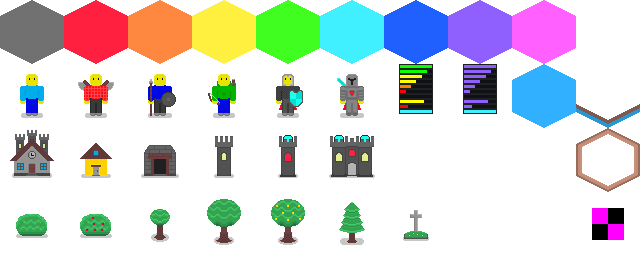
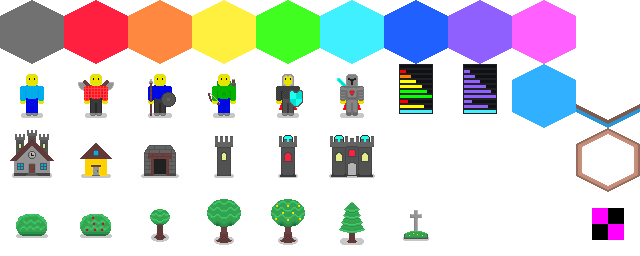
wip troop drawing + troop hp bar changes

Changed region(s): [[0.7188, 0.25, 0.7812, 0.4375], [0.625, 0.25, 0.6875, 0.4375]]

diff --git a/src/ui/drag.cpp b/src/ui/drag.cpp
@@ -1,5 +1,6 @@
 #include "ui/drag.hpp"
 #include "ui/window.hpp"
+#include "mathext.hpp"
 
 namespace ui {
 	/// Constructs an inactive drag event.
@@ -31,12 +32,12 @@ namespace ui {
 
 		// clamp value
 		if (max) {
-			if (value.x >= max->x) value.x = max->x - 1;
-			if (value.y >= max->y) value.y = max->y - 1;
+			value.x = ext::imin(value.x, max->x - 1);
+			value.y = ext::imin(value.y, max->y - 1);
 		};
 		if (min) {
-			if (value.x < min->x) value.x = min->x;
-			if (value.y < min->y) value.y = min->y;
+			value.x = ext::imax(value.x, min->x);
+			value.y = ext::imax(value.y, min->y);
 		};
 
 		// set reference to new value
@@ -68,16 +69,11 @@ namespace ui {
 
 	/// Updates drag scaling.
 	void Drag::setScale(float scale, sf::Vector2i mouse) {
-		// @todo: fix this fucking thing
-		//
-		// in theory this should be:
-		// 
-		//     camera = (camera + mouse) * new_scale / old_scale - mouse;
-		//
-		// reference vector is either not modified
-		// or constantly gets overwritten by inner state of ui::Drag
-		//
-		// also code above does not work
+		// clamp scale
+		scale = ext::fclamp(scale, min_zoom, max_zoom);
+
+		// shift camera
+		*_ref = sf::Vector2i(sf::Vector2f(*_ref + mouse) * scale / _scale) - mouse;
 
 		// set new scale
 		_scale = scale;

diff --git a/src/game/values/troop_values.cpp b/src/game/values/troop_values.cpp
@@ -1,4 +1,5 @@
 #include "game/values/troop_values.hpp"
+#include "mathext.hpp"
 
 namespace Values {
 	// texture array
@@ -20,4 +21,24 @@ namespace Values {
 		"@!troop.baron",
 		"@!troop.knight",
 	};
+
+	// health bar base
+	const sf::IntRect hp_base = sf::IntRect({ 399, 64 }, { 34, 5 });
+
+	// health bar array
+	const sf::IntRect troop_hp[static_cast<size_t>(TroopBar::Count)] = {
+		hp_base + sf::Vector2i(0, hp_base.size.y * 0), // 0 / 6
+		hp_base + sf::Vector2i(0, hp_base.size.y * 1), // 1 / 6
+		hp_base + sf::Vector2i(0, hp_base.size.y * 2), // 2 / 6
+		hp_base + sf::Vector2i(0, hp_base.size.y * 3), // 3 / 6
+		hp_base + sf::Vector2i(0, hp_base.size.y * 4), // 4 / 6
+		hp_base + sf::Vector2i(0, hp_base.size.y * 5), // 5 / 6
+		hp_base + sf::Vector2i(0, hp_base.size.y * 6), // 6 / 6
+		hp_base + sf::Vector2i(0, hp_base.size.y * 7), // 1 / 4
+		hp_base + sf::Vector2i(0, hp_base.size.y * 8), // 2 / 4
+		hp_base + sf::Vector2i(0, hp_base.size.y * 9), // ?
+	};
+
+	/// Poison health bar textures offset from normal bars.
+	const sf::Vector2i poison_bar = { 64, 0 };
 };

diff --git a/include/game/values/troop_values.hpp b/include/game/values/troop_values.hpp
@@ -10,4 +10,28 @@ namespace Values {
 	/// Localization requests for troops.
 	/// @param id Troop type.
 	extern const char* troop_names[Troop::Count];
+
+	/// Troop health bar texture type.
+	enum class TroopBar {
+		S0, // 0 / 6 = 0%
+		S1, // 1 / 6
+		S2, // 2 / 6 = 1 / 3
+		S3, // 3 / 6 = 1 / 2
+		S4, // 4 / 6 = 2 / 3
+		S5, // 5 / 6
+		S6, // 6 / 6 = 100%
+		Q1, // 1 / 4
+		Q3, // 3 / 4
+		UX, // invalid
+
+		Count
+	};
+
+	/// Troop health bar textures.
+	///
+	/// @param id Bar fill amount.
+	extern const sf::IntRect troop_hp[static_cast<size_t>(TroopBar::Count)];
+
+	/// Poison health bar textures offset from normal bars.
+	extern const sf::Vector2i poison_bar;
 };

diff --git a/src/game/draw/troop_draw.cpp b/src/game/draw/troop_draw.cpp
@@ -1,5 +1,23 @@
 #include "game/draw/troop_draw.hpp"
 
 namespace Draw {
+	/// Draws a troop.
+	void troopEntity(const Tile& tile, ui::RenderBuffer& buffer) {
+		// ignore if no troop
+		if (!tile.hex->troop) return;
+		const Troop& troop = *tile.hex->troop;
 
+		// draw troop
+		buffer.quad({ tile.origin, Values::tileTex }, Values::troop_textures[troop.type]);
+		buffer.forward(&assets::tilemap);
+	};
+
+	/// Draws troop status bar.
+	void troopStatus(const Tile& tile, ui::RenderBuffer& buffer) {
+		// ignore if no troop
+		if (!tile.hex->troop) return;
+		const Troop& troop = *tile.hex->troop;
+
+		
+	};
 };

diff --git a/include/mathext.hpp b/include/mathext.hpp
@@ -2,6 +2,7 @@
 
 // include dependencies
 #include "math.h"
+#include <SFML/Graphics/Rect.hpp>
 
 /// Math extension function namespace.
 namespace ext {
@@ -51,3 +52,11 @@ namespace ext {
 	/// @param upper Upper bound.
 	float fclamp(float x, float lower, float upper);
 };
+
+/// Shifts a rectangle by a vector.
+///
+/// @param rect Original rectangle.
+/// @param shift Shift vector.
+///
+/// @return Shifted rectangle.
+sf::IntRect operator+(const sf::IntRect& rect, const sf::Vector2i& shift);

diff --git a/include/game/draw/troop_draw.hpp b/include/game/draw/troop_draw.hpp
@@ -2,7 +2,18 @@
 
 // include dependencies
 #include "game/values/troop_values.hpp"
+#include "hex_draw.hpp"
 
 namespace Draw {
+	/// Draws a troop.
+	///
+	/// @param tile Tile draw data.
+	/// @param target Target render buffer.
+	void troopEntity(const Tile& tile, ui::RenderBuffer& buffer);
 
+	/// Draws troop status bar.
+	///
+	/// @param tile Tile draw data.
+	/// @param target Target render buffer.
+	void troopStatus(const Tile& tile, ui::RenderBuffer& buffer);
 };

diff --git a/include/game/map.hpp b/include/game/map.hpp
@@ -6,7 +6,7 @@
 #include <list>
 #include "ui/buffer.hpp"
 #include "assets.hpp"
-#include "div.hpp"
+#include "mathext.hpp"
 #include "hex.hpp"
 
 /// Game map object.
@@ -73,6 +73,12 @@ public:
 	///
 	/// @return Tile reference.
 	Hex* operator[](sf::Vector2i pos) const;
+
+public:
+	/// Adds a troop to the map.
+	///
+	/// @param troop Troop object.
+	void setTroop(Troop&& troop);
 
 public:
 	/// Returns amount of hexes stored.

diff --git a/src/game/map.cpp b/src/game/map.cpp
@@ -133,4 +133,10 @@ void Map::draw(ui::RenderBuffer& target) const {
 	while (auto tile = drawer.next()) {
 		tile->drawBorders(target, Draw::regionBorderTest, sf::Color::Black);
 	};
+
+	// draw tile contents
+	drawer.reset();
+	while (auto tile = drawer.next()) {
+		Draw::troopEntity(*tile, target);
+	};
 };

diff --git a/include/game/draw.hpp b/include/game/draw.hpp
@@ -1,8 +1,10 @@
 #pragma once
 
 // include dependencies
-#include "values/hex_values.hpp"
 #include "draw/hex_draw.hpp"
+#include "draw/troop_draw.hpp"
+#include "draw/build_draw.hpp"
+#include "draw/plant_draw.hpp"
 
 /// Tile drawer object.
 /// Prepares tile drawing data for each tile in an area.

diff --git a/src/mathext.cpp b/src/mathext.cpp
@@ -45,3 +45,8 @@ namespace ext {
 		return fmin(fmax(x, lower), upper);
 	};
 };
+
+/// Shifts a rectangle by a vector.
+sf::IntRect operator+(const sf::IntRect& rect, const sf::Vector2i& shift) {
+	return { rect.position + shift, rect.size };
+};

diff --git a/include/game/draw/hex_draw.hpp b/include/game/draw/hex_draw.hpp
@@ -3,9 +3,6 @@
 // include dependencies
 #include "game/values/hex_values.hpp"
 #include "game/map.hpp"
-#include "troop_draw.hpp"
-#include "build_draw.hpp"
-#include "plant_draw.hpp"
 #include <functional>
 
 namespace Draw {
